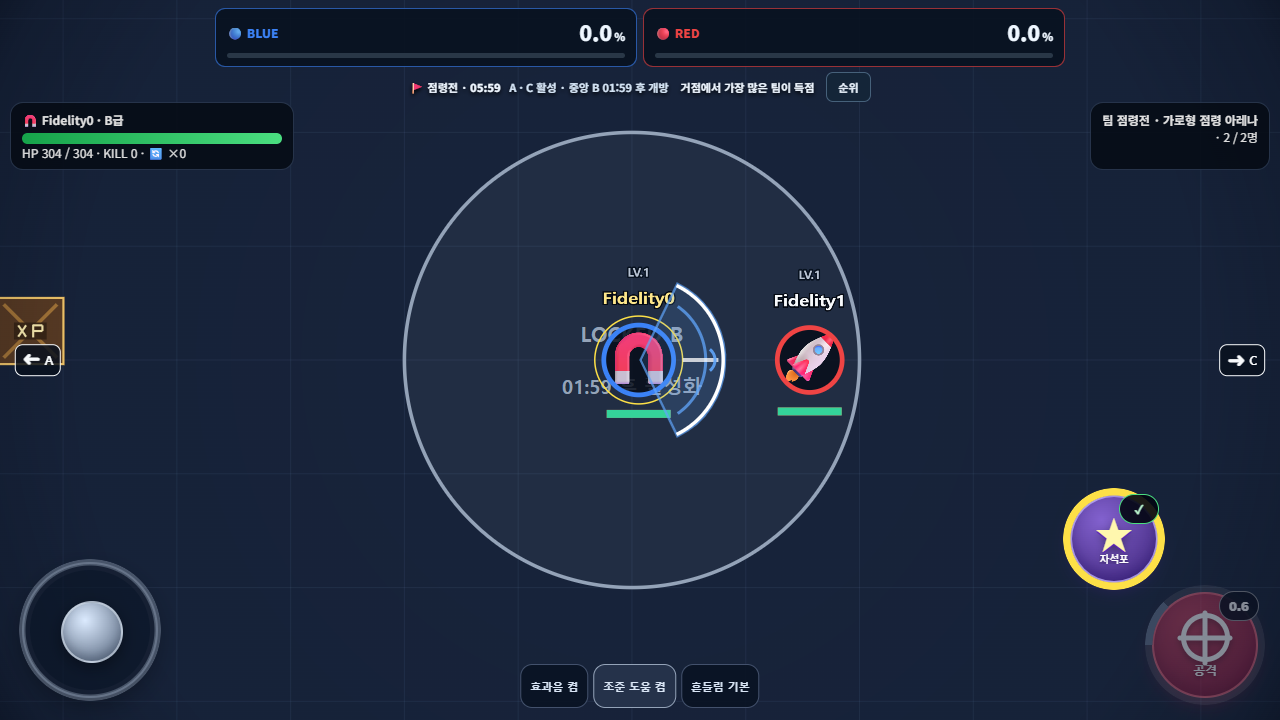
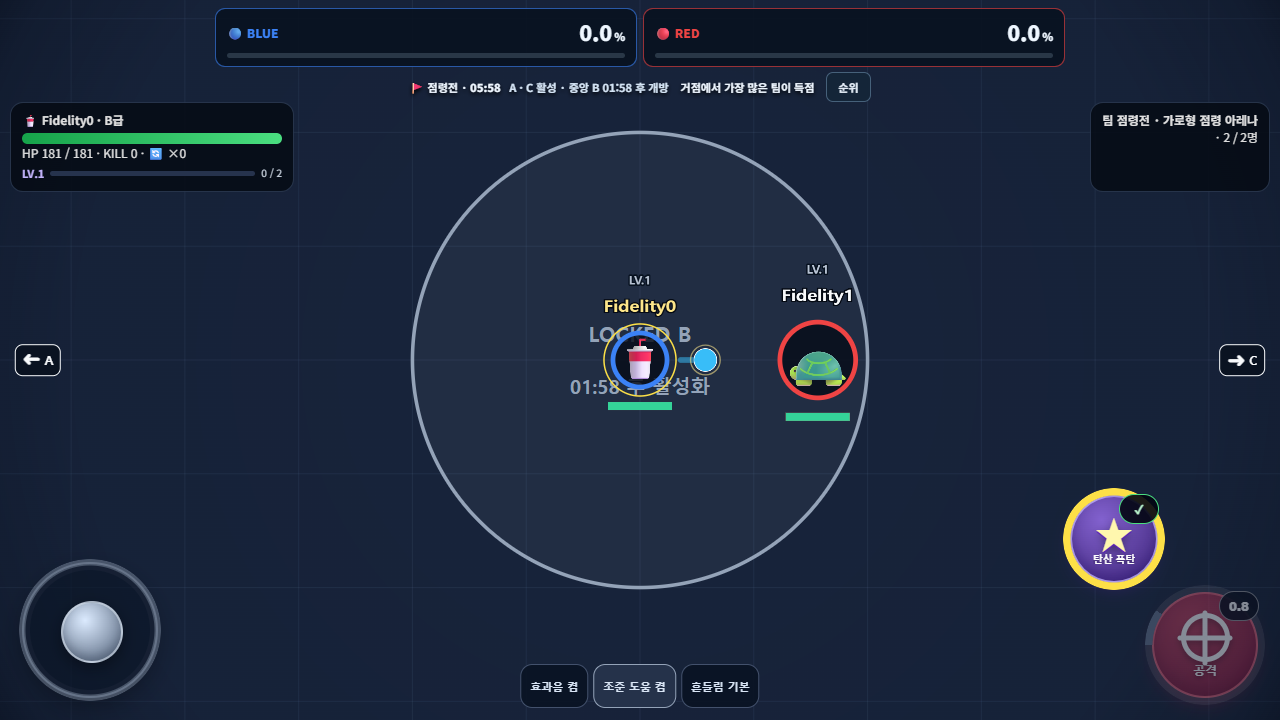
fix: match original student HUD and objective arrows

diff --git a/apps/client/src/render/renderer.js b/apps/client/src/render/renderer.js
@@ -1,10 +1,12 @@
+import {manifest} from '../../../../packages/content/src/manifest.js';
+import {ObjectiveArrows} from './objectives.js';
 import {drawFallback} from './fallback-effects.js';
 import {drawProjectile} from './projectile.js';
 import {previewCue} from '../presentation/previews.js';
 import {Application,Container,Graphics,Sprite,Texture,Text} from 'pixi.js';
 import {createPainters} from './original-painters.js';
 export class Renderer{
- constructor(canvas,timeline,session){this.canvas=canvas;this.timeline=timeline;this.session=session;this.paint=createPainters(session);this.textures=new Map();this.sprites=new Map();this.labels=new Map();this.tracks=new Map();this.frameTimes=[];this.enabled=false;this.teacher=false;this.cam={x:0,y:0};this.last=performance.now();this.init();}
+ constructor(canvas,timeline,session){this.objectives=new ObjectiveArrows();this.canvas=canvas;this.timeline=timeline;this.session=session;this.paint=createPainters(session);this.textures=new Map();this.sprites=new Map();this.labels=new Map();this.tracks=new Map();this.frameTimes=[];this.enabled=false;this.teacher=false;this.cam={x:0,y:0};this.last=performance.now();this.init();}
  async init(){
   if(new URLSearchParams(location.search).get('renderer')!=='canvas')try{this.app=new Application();await this.app.init({canvas:this.canvas,width:innerWidth,height:innerHeight,background:'#07101d',antialias:true,resolution:Math.min(2,devicePixelRatio),autoDensity:true,autoStart:false});this.world=new Container();this.g=new Graphics();this.world.addChild(this.g);this.fg=new Graphics();this.world.addChild(this.fg);this.app.stage.addChild(this.world);this.pixi=true;}catch(error){console.warn('Canvas fallback:',error.message);this.app?.destroy();this.app=null;}
   if(!this.pixi)this.ctx=this.canvas.getContext('2d');this.resize();addEventListener('resize',()=>this.resize());requestAnimationFrame(t=>this.frame(t));
@@ -12,7 +14,7 @@ export class Renderer{
  resize(){const dpr=this.session.roomMeta?.graphicsPreset==='low'?1:Math.min(2,devicePixelRatio);if(this.app)this.app.renderer.resize(innerWidth,innerHeight,dpr);else{this.canvas.width=innerWidth*dpr;this.canvas.height=innerHeight*dpr;this.dpr=dpr;}}
  image(source,x,y,r,key,rotation=0,alpha=1,squash=0){if(this.pixi){let texture=this.textures.get(source);if(!texture){texture=Texture.from(source);this.textures.set(source,texture);}let sprite=this.sprites.get(key);if(!sprite){sprite=new Sprite(texture);sprite.anchor.set(.5);this.sprites.set(key,sprite);this.world.addChild(sprite);}sprite.texture=texture;sprite.visible=true;sprite.position.set(x,y);sprite.width=r*2*(1+squash*.65);sprite.height=r*2*(1-squash);sprite.rotation=rotation;sprite.alpha=alpha;}else{const c=this.ctx;c.save();c.globalAlpha=alpha;c.translate(x,y);c.rotate(rotation);c.drawImage(source,-r*(1+squash*.65),-r*(1-squash),r*2*(1+squash*.65),r*2*(1-squash));c.restore();}}
  glyph(emoji,x,y,r,key,squash=0,alpha=1){this.image(this.paint.brGetEmojiSprite(emoji),x,y,r,key,0,alpha,squash);}
- reset(){this.seenFx=new Set();this.session.hitStates=new Map();this.session.sustainFeedbackAt=new Map();this.session.hitConfirm=null;this.session.killConfirm=null;this.session.studentShake=null;this.session.damageFlash=null;for(const s of this.sprites.values())s.destroy();this.sprites.clear();for(const l of this.labels.values())l.destroy();this.labels.clear();this.tracks.clear();this.hpTrails?.clear();for(const t of this.textures.values())t.destroy(true);this.textures.clear();this.session.nameSpriteCache?.clear();this.paint.BR_ACTOR_EMOJI_CACHE.clear();this.paint.BR_LEVEL_TEXTURES.clear();this.paint.brBulletSources.clear();}
+ reset(){this.objectives.hide();this.seenFx=new Set();this.session.hitStates=new Map();this.session.sustainFeedbackAt=new Map();this.session.hitConfirm=null;this.session.killConfirm=null;this.session.studentShake=null;this.session.damageFlash=null;for(const s of this.sprites.values())s.destroy();this.sprites.clear();for(const l of this.labels.values())l.destroy();this.labels.clear();this.tracks.clear();this.hpTrails?.clear();for(const t of this.textures.values())t.destroy(true);this.textures.clear();this.session.nameSpriteCache?.clear();this.paint.BR_ACTOR_EMOJI_CACHE.clear();this.paint.BR_LEVEL_TEXTURES.clear();this.paint.brBulletSources.clear();}
  feedback(view,now){this.session.playerId=view.self?.id;this.seenFx??=new Set();for(const f of view.effects){if(!f.id||this.seenFx.has(f.id))continue;this.seenFx.add(f.id);if(f.kind==='hit')this.paint.brRegisterHitFeedback(f.targetId,f.amount,f.x,f.y,f.sourceId,f.style,true,f.impactLevel,f.geometry||{});if(f.kind==='elimination'&&f.sourceId===view.self?.id)this.session.killConfirm={until:now+240,duration:240,heavy:true,confirmed:true,elimination:true};}while(this.seenFx.size>600)this.seenFx.delete(this.seenFx.values().next().value);}
  name(a,x,y,zoom,own){const source=this.paint.brGetNameSprite(a.name,own?'#fde68a':'#f8fafc',own),width=Math.min(156,source._labelW||136)/zoom,height=28/zoom,key='name-'+a.id;if(this.pixi){this.image(source,x,y,1,key);const sprite=this.sprites.get(key);sprite.width=width;sprite.height=height;}else this.ctx.drawImage(source,x-width/2,y-height/2,width,height);}
  text(text,x,y,size,color,key){if(this.pixi){let label=this.labels.get(key);if(!label){label=new Text({text,style:{fontFamily:'sans-serif',fontSize:size,fill:color,stroke:{color:'#06101e',width:3},fontWeight:'bold'}});label.anchor.set(.5);this.labels.set(key,label);this.world.addChild(label);}label.text=text;label.style.fontSize=size;label.style.fill=color;label.visible=true;label.position.set(x,y);}else{const c=this.ctx;c.font=`bold ${size}px sans-serif`;c.textAlign='center';c.textBaseline='middle';c.lineWidth=3;c.strokeStyle='#06101e';c.strokeText(text,x,y);c.fillStyle=color;c.fillText(text,x,y);}}
@@ -34,7 +36,7 @@ export class Renderer{
   for(const wall of map.walls){const hw=wall.w/2,hh=wall.h/2,co=Math.cos(wall.angle),si=Math.sin(wall.angle);p.polygon([[-hw,-hh],[hw,-hh],[hw,hh],[-hw,hh]].map(([x,y])=>[wall.x+x*co-y*si,wall.y+x*si+y*co]),wall.kind==='rock'?'#49576a':'#33465b',1,0);}
   for(const b of view.farm?.b||[])this.paint.brPaintCrate(p,b);
   for(const drop of view.farm?.x||[])p.circle(drop[1],drop[2],drop[4]===2?21:14,drop[4]===2?'#4ade80':'#67e8f9',1);
-  if(view.capture&&map.captureMap){const font=Math.max(30,11/zoom),names=['','BLUE','RED','GREEN','YELLOW'];for(const base of map.captureMap.bases||[]){const col=this.paint.brTeamKillColor(base.team);p.rect(base.x-base.rx,base.y-base.ry,base.rx*2,base.ry*2,col,.1);p.rect(base.x-base.rx,base.y-base.ry,base.rx*2,base.ry*2,col,1,3);this.text(names[base.team]+' BASE',base.x,base.y-base.ry+font,font,col,'base-'+base.team);}for(const [i,z]of map.captureMap.points.entries()){const row=view.capture.z[i],enabled=!!(view.capture.am&(1<<i)),team=row[1],color=row[0]==='scoring'?this.paint.brTeamKillColor(team):row[0]==='contested'?'#f1f5f9':'#94a3b8';p.circle(z.x,z.y,z.radius,color,.08);p.circle(z.x,z.y,z.radius,color,1,Math.max(5,1.8/zoom));this.text(enabled?z.id+(i===1?' · ×1.5':'')+' · 점령 거점':'LOCKED '+z.id,z.x,z.y-(enabled?75:35),font*(enabled?1.2:1),color,'point-'+i);this.text(!enabled?Math.max(0,Math.ceil(60-view.capture.a))+'초 후 활성화':row[0]==='scoring'?names[team]+' 우세':row[0]==='contested'?'⚔ 경합 · 득점 정지':'중립 · 대기',z.x,z.y+(enabled?5:40),font,color,'point-state-'+i);if(enabled)for(let team=1;team<=view.capture.n;team++)this.text(names[team][0]+' '+(row[2][team-1]||0),z.x+(team-(view.capture.n+1)/2)*Math.max(85,font*2.6),z.y+85,font*.88,this.paint.brTeamKillColor(team),'point-count-'+i+'-'+team);}}
+  if(view.capture&&map.captureMap){const font=Math.max(30,11/zoom),names=['','BLUE','RED','GREEN','YELLOW'];for(const base of map.captureMap.bases||[]){const col=this.paint.brTeamKillColor(base.team);p.rect(base.x-base.rx,base.y-base.ry,base.rx*2,base.ry*2,col,.1);p.rect(base.x-base.rx,base.y-base.ry,base.rx*2,base.ry*2,col,1,3);this.text(names[base.team]+' BASE',base.x,base.y-base.ry+font,font,col,'base-'+base.team);}for(const [i,z]of map.captureMap.points.entries()){const row=view.capture.z[i],enabled=!!(view.capture.am&(1<<i)),team=row[1],color=row[0]==='scoring'?this.paint.brTeamKillColor(team):row[0]==='contested'?'#f1f5f9':'#94a3b8';p.circle(z.x,z.y,z.radius,color,.08);p.circle(z.x,z.y,z.radius,color,1,Math.max(5,1.8/zoom));this.text(enabled?z.id+(i===1?' · ×1.5':'')+' · 점령 거점':'LOCKED '+z.id,z.x,z.y-(enabled?75:35),font*(enabled?1.2:1),color,'point-'+i);this.text(!enabled?String(Math.floor(Math.max(0,Math.ceil(manifest.capture.openingSeconds-view.capture.a))/60)).padStart(2,'0')+':'+String(Math.max(0,Math.ceil(manifest.capture.openingSeconds-view.capture.a))%60).padStart(2,'0')+' 후 활성화':row[0]==='scoring'?names[team]+' 우세':row[0]==='contested'?'⚔ 경합 · 득점 정지':'중립 · 대기',z.x,z.y+(enabled?5:40),font,color,'point-state-'+i);if(enabled)for(let team=1;team<=view.capture.n;team++)this.text(names[team][0]+' '+(row[2][team-1]||0),z.x+(team-(view.capture.n+1)/2)*Math.max(85,font*2.6),z.y+85,font*.88,this.paint.brTeamKillColor(team),'point-count-'+i+'-'+team);}}
   else if(view.ring)p.circle(view.ring.cx,view.ring.cy,view.ring.radius,'#ef4444',.9,4/zoom);
   for(const z of view.zones||[])this.paint.brPaintGround(p,z.x,z.y,z.radius,z.color,z.type,zoom,false);
   const rw=view.shots.filter(s=>!s.native);
@@ -48,7 +50,7 @@ export class Renderer{
    this.paint.brPaintReworkStatus(p,a.x,a.y,a.radius,zoom,a.rw,a.statusTick??view.renderTick,a.maxHp);
   }
   for(const fx of view.effects){const age=view.renderTick-fx.tick,alpha=Math.max(0,1-age/Math.max(6,(fx.geometry?.displayMs||400)*.06));const row=['',fx.kind,fx.x,fx.y,fx.dx,fx.dy,fx.size,fx.color,fx.amount,0,fx.style,0,fx.impactLevel,fx.geometry];if(!this.paint.brPaintAttack(foreground,row,alpha,zoom))drawFallback(this,foreground,fx,alpha,zoom);}
-  if(!this.teacher&&self&&map.captureMap){for(const z of map.captureMap.points){const dx=(z.x-self.x)*zoom,dy=(z.y-self.y)*zoom;if(Math.abs(dx)<w*.42&&Math.abs(dy)<h*.38)continue;const k=Math.min(w*.42/Math.max(1,Math.abs(dx)),h*.32/Math.max(1,Math.abs(dy))),x=self.x+dx*k/zoom,y=self.y+dy*k/zoom;this.text('➤ '+z.id,x,y,18/zoom,'#fde68a','arrow-'+z.id);}}
+  if(!this.teacher&&self?.alive)this.objectives.draw(map.captureMap,view.capture,this.cam,w,h,zoom,this.paint.brTeamKillColor);else this.objectives.hide();
   for(const key of this.hpTrails?.keys()||[])if(!view.actors.some(a=>key===a.id+':'+a.lifeSeq))this.hpTrails.delete(key);
   for(const [id,track]of this.tracks)if(!view.actors.some(a=>a.id===id&&a.alive))this.paint.brLevelPose(track,0,0,now,false);
   const hit=this.session.killConfirm||this.session.hitConfirm;if(hit&&now<hit.until){const ratio=Math.min(1,(hit.until-now)/hit.duration),r=(hit.heavy?19:14)*(1+(1-ratio)*.35)/zoom,col=hit.elimination?'#fb7185':hit.heavy?'#fde047':'#fff';for(let i=0;i<4;i++){const a=Math.PI/4+i*Math.PI/2;foreground.line(this.cam.x+Math.cos(a)*r*.42,this.cam.y+Math.sin(a)*r*.42,this.cam.x+Math.cos(a)*r,this.cam.y+Math.sin(a)*r,col,Math.min(1,ratio*1.7),(hit.heavy?4:3)/zoom,'round');}if(hit.elimination)this.text('K.O.',this.cam.x,this.cam.y+32/zoom,18/zoom,'#ffe4e6','ko');}

diff --git a/apps/client/src/ui/battle.js b/apps/client/src/ui/battle.js
@@ -1,21 +1,26 @@
-const $=id=>document.getElementById(id),colors=['#60a5fa','#f87171','#4ade80','#facc15'],names=['BLUE','RED','GREEN','YELLOW'];
-const time=n=>Math.floor(n/60)+':'+String(Math.floor(n%60)).padStart(2,'0');
+import {manifest} from '../../../../packages/content/src/manifest.js';
+const $=id=>document.getElementById(id),colors=['#60a5fa','#f87171','#4ade80','#facc15'],names=['BLUE','RED','GREEN','YELLOW'],dots=['🔵','🔴','🟢','🟡'];
+const time=n=>String(Math.floor(n/60)).padStart(2,'0')+':'+String(Math.floor(n%60)).padStart(2,'0');
 export function actionHud(s){
- $('br-battle-status').textContent=`HP ${Math.round(s.hp)} / ${Math.round(s.maxHp)} · KILL ${s.kills||0}`+(s.cover==='smoke'?(s.rw.smokeRevealEnd>s.rw.sourceTick?' · 🌫 노출 중':' · 🌫 은폐 중'):'')+(s.rw?.shield>0?' · 보호막 '+Math.ceil(s.rw.shield):'')+(s.respawn?.protectionFrames>0?' · 🛡 부활 보호':'');
+ $('br-battle-status').textContent=`HP ${Math.round(s.hp)} / ${Math.round(s.maxHp)} · KILL ${s.kills||0}`+(s.cover==='smoke'?(s.rw.smokeRevealEnd>s.rw.sourceTick?(s.rw.smokeRevealReason===1?' · 🌫 공격으로 노출':' · 🌫 피격으로 노출'):' · 🌫 은폐 중'):'')+(s.respawn?' · 🔄 ×'+s.respawn.tokens:'')+(s.respawn?.protectionFrames>0?' · 🛡 부활 보호':'')+(s.rw?.shield>0?' · 보호막 '+Math.ceil(s.rw.shield):'');
  for(const kind of ['attack','skill']){const frames=kind==='attack'?s.basicCooldown:s.cooldown,max=kind==='attack'?s.basicCooldownMax:s.skillCooldownMax,locked=!s.alive||s.stunned>0||s.rw?.locks?.[kind],ready=!locked&&frames<=0,button=$('br-'+kind),label=$('br-'+kind+'-cd');button.style.setProperty('--br-cd-angle',(Math.max(0,Math.min(1,1-frames/Math.max(1,max)))*360).toFixed(1)+'deg');button.classList.toggle('disabled',!ready);button.classList.toggle('br-state-locked',!!locked);label.classList.toggle('ready',ready);label.textContent=locked?'🔒':ready?'✓':(frames/60).toFixed(1);button.setAttribute('aria-disabled',String(locked));}
  $('br-skill-count').textContent=s.rw?.recast?'2 / 2':s.skillUsesLeft<0?'∞':s.skillUsesLeft+'회';
- $('br-joystick').classList.toggle('br-state-locked',!!s.rw?.locks?.move);$('br-skill').classList.toggle('br-channel-aim',!!s.rw?.channel&&!s.stunned);$('br-skill-label').textContent=s.stunned?'기절':s.rw?.channel?'광선 조준':'스킬';if(s.rw?.channel&&!s.stunned)$('br-skill-cd').textContent='조준';
- if(s.rw?.recast)$('br-skill-cd').textContent='재시전';
+ const hardLock=!!(s.stunned||s.rw?.capture),channel=!!s.rw?.channel&&!hardLock;
+ $('br-joystick').classList.toggle('br-state-locked',!!s.rw?.locks?.move);$('br-skill').classList.toggle('br-channel-aim',channel);$('br-skill-label').textContent=hardLock?(s.stunned?'기절':'포획'):channel?'광선 조준':s.visualProfiles?.skillLabel||'스킬';
+ $('br-skill-count').classList.toggle('br-recast-count',!!s.rw?.recast);
+ if(s.rw?.recast&&!hardLock)$('br-skill-cd').textContent=(Math.max(0,s.rw.recast.end-s.rw.sourceTick)/60).toFixed(1);
+ if(channel)$('br-skill-cd').textContent='조준';
+ if((channel||s.rw?.recast)&&!hardLock){$('br-skill').classList.remove('disabled','br-state-locked');$('br-skill').setAttribute('aria-disabled','false');}
 }
 export function captureHud(packet,host){
  let el=$('br-capture-scoreboard');if(!packet){el?.classList.add('br-hidden');document.body.classList.remove('br-capture-host','br-capture-student');return;}
  if(!el){el=document.createElement('div');el.id='br-capture-scoreboard';document.body.append(el);}el.classList.remove('br-hidden');el.classList.toggle('host',host);document.body.classList.toggle('br-capture-host',host);document.body.classList.toggle('br-capture-student',!host);
  if(el.dataset.layout!==String(packet.s.length)){el.dataset.layout=String(packet.s.length);el.innerHTML='<div class="br-cap-cards">'+packet.s.map((_,i)=>`<div class="br-cap-card" style="--team:${colors[i]}"><div><b>${names[i]}</b><strong><span data-cap-value="${i}"></span><small>%</small></strong></div><div class="br-cap-track"><i data-cap-bar="${i}"></i></div></div>`).join('')+'</div><div class="br-cap-info"><span>🚩 점령전 · <b data-cap-time></b> <em data-cap-phase></em></span><span data-cap-status>거점에서 가장 많은 팀이 득점</span><button type="button" data-cap-rank>순위</button></div>';el.querySelector('[data-cap-rank]').onclick=()=>$('br-tk-leaderboard').classList.remove('br-hidden');}
- packet.s.forEach((score,i)=>{el.querySelector(`[data-cap-value="${i}"]`).textContent=score.toFixed(1);el.querySelector(`[data-cap-bar="${i}"]`).style.width=Math.min(100,score)+'%';});el.querySelector('[data-cap-time]').textContent=time(Math.max(0,packet.t-packet.a));const phase=el.querySelector('[data-cap-phase]');phase.textContent=packet.ph==='FEVER'?'🔥 FEVER ×2':packet.ph==='OPENING'?'A · C 활성':'A · B · C 활성';phase.classList.toggle('fever',packet.ph==='FEVER');
+ packet.s.forEach((score,i)=>{el.querySelector(`[data-cap-value="${i}"]`).textContent=(score>=100-1e-8?100:Math.floor((Math.max(0,score)+manifest.capture.epsilon)*10)/10).toFixed(1);el.querySelector(`[data-cap-bar="${i}"]`).style.width=Math.min(100,score)+'%';el.querySelectorAll('.br-cap-card b')[i].textContent=dots[i]+' '+names[i];});el.querySelector('[data-cap-time]').textContent=time(Math.max(0,Math.ceil(packet.t-packet.a)));const phase=el.querySelector('[data-cap-phase]');phase.textContent=packet.ph==='FEVER'?'🔥 FEVER ×2':packet.ph==='OPENING'?'A · C 활성 · 중앙 B '+time(Math.max(0,Math.ceil(manifest.capture.openingSeconds-packet.a)))+' 후 개방':'A · B · C 활성';phase.classList.toggle('fever',packet.ph==='FEVER');
 }
 export function resultRecords(result,roster){
  const list=$('br-ranking'),rows=result.players||[],capture=result.mode==='team-capture';list.classList.add('br-tk-records');const table=document.createElement('table'),head=table.createTHead().insertRow();
  for(const title of ['순위','이름','팀','사용 이모지',capture?'점령 기여':'피해량','K / D / A','Damage','거점 K / A','득점 참여','회복 / 보호','퀴즈 / 리롤']){const cell=document.createElement('th');cell.textContent=title;head.append(cell);}
- const body=table.createTBody();for(const r of rows){const row=body.insertRow(),history=r.abilityHistory||r.emojiHistory||[r.abilityId];const values=[r.rank,r.name,r.team||'-',Array.isArray(history)?history.map(a=>roster.find(c=>c.id===(typeof a==='string'?a:a.abilityId))?.emoji||'').join(' '):'',capture?Number(r.points||0).toFixed(3)+'%p':Math.round(r.damageDealt??r.damage??0),`${r.kills||0} / ${r.deaths||0} / ${r.assists||0}`,Math.round(r.damageDealt??r.damage??0),`${r.pointKills||0} / ${r.pointAssists||0}`,time(r.scoringSeconds||0),`${Math.floor(r.heal||0)} / ${Math.floor(r.shield||0)}`,`${r.quizCorrect||0} / ${r.rerollCount||0}`];for(const value of values)row.insertCell().textContent=value??'';}list.replaceChildren(table);
+ const body=table.createTBody();for(const r of rows){const row=body.insertRow(),history=r.usedAbilities||r.abilityHistory||r.emojiHistory||[r.abilityId];const values=[r.rank,r.name,r.team||'-',Array.isArray(history)?history.map(a=>roster.find(c=>c.id===(typeof a==='string'?a:a.abilityId))?.emoji||'').join(' '):'',capture?Number(r.points||0).toFixed(3)+'%p':Math.round(r.damageDealt??r.damage??0),`${r.kills||0} / ${r.deaths||0} / ${r.assists||0}`,Math.round(r.damageDealt??r.damage??0),`${r.pointKills||0} / ${r.pointAssists||0}`,time(r.scoringSeconds||0),`${Math.floor(r.heal||0)} / ${Math.floor(r.shield||0)}`,`${r.quizCorrect||0} / ${r.rerollCount||0}`];for(const value of values)row.insertCell().textContent=value??'';}list.replaceChildren(table);
  const teams=$('br-tk-result-teams');teams.classList.toggle('br-hidden',!result.teams?.length);teams.replaceChildren(...(result.teams||[]).map(t=>{const e=document.createElement('div');e.className='br-tk-team-result';e.style.setProperty('--tk-color',colors[t.team-1]);const title=document.createElement('b'),score=document.createElement('strong');title.textContent=`${t.rank} · ${names[t.team-1]}`;score.textContent=Number(t.score||0).toFixed(1)+'%';e.append(title,score);return e;}));
 }

diff --git a/apps/client/src/ui/app.js b/apps/client/src/ui/app.js
@@ -63,7 +63,7 @@ export class AppUI{
  screen(id){document.querySelectorAll('.br-screen').forEach(e=>e.classList.add('br-hidden'));show('br-student-battle',id==='br-student-battle');show('br-host-live',id==='br-student-battle'&&this.room?.self.role==='host');show(id);show('br-app',id!=='br-student-battle');}
  renderRoom(room){
   const changed=!this.room||this.room.phase!==room.phase||this.room.matchId!==room.matchId;this.room=room;this.roomAt=performance.now();this.renderer.session.roomMeta=room.config;
-  const host=room.self.role==='host';this.renderer.teacher=host;this.renderer.enabled=room.phase==='BATTLE';this.controls.enabled=!host&&room.phase==='BATTLE';show('br-music-controls');
+  const host=room.self.role==='host';this.renderer.teacher=host;this.renderer.enabled=room.phase==='BATTLE';this.controls.enabled=!host&&room.phase==='BATTLE';const musicVisible=host?['LOBBY','QUIZ','DRAFT','BATTLE'].includes(room.phase):room.phase==='LOBBY';show('br-music-controls',musicVisible);$('br-music-controls').classList.toggle('br-music-host',host);document.body.classList.toggle('br-host-music-visible',host&&musicVisible);
   show('br-tk-host-bar',host&&room.phase==='BATTLE');show('br-tk-student-bar',!host&&room.phase==='BATTLE'&&room.config.mode==='team-capture');if(room.phase!=='BATTLE'){show('br-tk-leaderboard',false);captureHud(null);}
   if(changed){this.audio.phase(room.phase);if(room.phase!=='BATTLE'){this.timeline.reset();this.controls.reset();}}
   if(room.phase==='RESULTS'){this.screen('br-results');this.results(room.result);return;}
@@ -83,13 +83,13 @@ export class AppUI{
  quiz(q){if(!q?.question)return;this.quizUnlock=performance.now()+q.lockRemainingMs;text('br-quiz-score',q.score);text('br-quiz-rerolls',Math.floor(q.score/this.room.config.rerollEvery));text('br-quiz-progress','문제 '+q.attempt);text('br-quiz-word',q.question.prompt);
   if(this.boundQuiz!==q.question.id){this.boundQuiz=q.question.id;$('br-quiz-choices').replaceChildren(...q.question.answers.map(a=>button(a.text,()=>this.run(async()=>{const r=await this.net.command('QUIZ_ANSWER',{questionId:q.question.id,attemptId:q.question.attemptId,answerId:a.id});text('br-quiz-feedback',r.correct?'CORRECT!':'TRY AGAIN · 1.5초 뒤 다시 선택');this.quizUnlock=performance.now()+r.lockMs;}),'br-btn br-choice')));}
  }
- self(s){this.selfState=s;this.net.lifeSeq=s.lifeSeq;text('br-battle-self',s.emoji+' '+s.name);text('br-battle-status',`HP ${Math.ceil(s.hp)} / ${Math.round(s.maxHp)}`);$('br-battle-hp').style.width=Math.max(0,s.hp/s.maxHp*100)+'%';
+ self(s){this.selfState=s;this.net.lifeSeq=s.lifeSeq;text('br-battle-self',s.emoji+' '+s.name+' · '+s.tier+'급');text('br-battle-status',`HP ${Math.ceil(s.hp)} / ${Math.round(s.maxHp)}`);$('br-battle-hp').style.width=Math.max(0,s.hp/s.maxHp*100)+'%';
   text('br-attack-cd',s.basicCooldown>0?(s.basicCooldown/60).toFixed(1):'✓');text('br-skill-cd',s.cooldown>0?(s.cooldown/60).toFixed(1):'✓');
   actionHud(s);this.augments.render(s);
   const q=s.respawn;show('br-tk-quiz',!s.alive&&!!q);show('br-respawn',!s.alive&&!q);if(!s.alive&&q){text('br-tk-progress',q.correct+' / 3 CORRECT');text('br-tk-quiz-tokens','🔄 ×'+q.tokens);text('br-tk-word',q.question?.prompt||'부활할 이모지를 선택하세요.');show('br-tk-choice',q.correct>=3);$('br-tk-reroll').disabled=q.tokens<=0;
    if(this.respawnId!==q.question?.id){this.respawnId=q.question?.id;$('br-tk-options').replaceChildren(...(q.question?.answers||[]).map(a=>button(a.text,()=>this.run(async()=>{const r=await this.net.command('RESPAWN',{kind:'answer',questionId:q.question.id,answerId:a.id});text('br-tk-feedback',r.message||'');}))));}}
  }
- battleHud(v){text('br-battle-time',Math.floor(v.simTime/60000)+':'+String(Math.floor(v.simTime/1000)%60).padStart(2,'0'));text('br-battle-alive',v.aliveCount+'명');text('br-battle-mode',this.room?.config.mode==='team-capture'?'팀 점령전':this.room?.config.mode==='team-elim'?'팀 생존전':'개인전');text('br-zone-text',v.capture?v.capture.ph==='FEVER'?'FEVER ×2':v.capture.ph==='OPENING'?'A · C 활성':'A · B · C 활성':v.ring?'안전구역 '+Math.round(v.ring.radius):'');
+ battleHud(v){text('br-battle-time',Math.floor(v.simTime/60000)+':'+String(Math.floor(v.simTime/1000)%60).padStart(2,'0'));text('br-battle-alive',v.aliveCount+' / '+(this.room?.players.length||v.actors.length)+'명');text('br-battle-mode',(v.self?.flags&64?'🔥 FINAL 3 BURNING · ':'')+(this.room?.config.mode==='team-capture'?'팀 점령전':this.room?.config.mode==='team-elim'?'팀 생존전':'개인전')+(innerWidth>600&&this.timeline.static?.mapName?' · '+this.timeline.static.mapName:''));text('br-zone-text',v.capture?v.capture.ph==='FEVER'?'FEVER ×2':v.capture.ph==='OPENING'?'A · C 활성':'A · B · C 활성':v.ring?'안전구역 '+Math.round(v.ring.radius):'');
   captureHud(v.capture,this.renderer.teacher);
  }
  results(result){if(!result)return;const rows=result.players||[],winner=rows[0],card=manifest.roster.find(a=>a.id===winner?.abilityId);text('br-result-winner',result.mode==='team-capture'?(result.tiedTeams?.length>1?'공동 1위 · 무승부':'팀 '+result.teamWinner+' 승리'):`🏆 ${card?.emoji||winner?.emoji||''} ${winner?.name||'경기 종료'}`);

diff --git a/apps/client/src/render/objectives.js b/apps/client/src/render/objectives.js
@@ -1,0 +1,25 @@
+// v32.1 brCaptureArrowPosition and brCaptureObjectiveArrows, adapted to received WS state.
+function position(point,cam,w,h,zoom,top=100,bottom=h-180){
+ const dx=(point.x-cam.x)*zoom,dy=(point.y-cam.y)*zoom,r=point.radius*zoom;
+ const nearX=Math.max(0,Math.abs(dx)-w/2),nearY=Math.max(0,Math.abs(dy)-h/2);
+ if(nearX*nearX+nearY*nearY<=r*r)return null;
+ top=Math.min(h*.45,top);bottom=Math.max(h*.55,bottom);
+ const cx=w/2,cy=Math.max(top,Math.min(bottom,h/2)),left=38,right=w-38;
+ const tx=Math.abs(dx)<1e-6?Infinity:(dx>0?right-cx:left-cx)/dx;
+ const ty=Math.abs(dy)<1e-6?Infinity:(dy>0?bottom-cy:top-cy)/dy,t=Math.max(0,Math.min(tx,ty));
+ return {x:cx+dx*t,y:cy+dy*t,angle:Math.atan2(dy,dx)};
+}
+export class ObjectiveArrows{
+ hide(){if(this.root)this.root.hidden=true;}
+ draw(map,packet,cam,w,h,zoom,color){
+  if(!map||!packet){this.hide();return;}
+  if(!this.root){this.root=document.createElement('div');this.root.id='br-capture-arrows';this.root.setAttribute('aria-hidden','true');document.getElementById('br-student-battle').append(this.root);this.nodes=map.points.map(()=>{const el=document.createElement('div'),arrow=document.createElement('span'),label=document.createElement('b');el.className='br-objective-arrow';arrow.textContent='➜';el.append(arrow,label);this.root.append(el);return {el,arrow,label,key:''};});}
+  this.root.hidden=false;const key=w+'|'+h+'|'+packet.n;if(this.layoutKey!==key){this.layoutKey=key;this.top=Math.max(100,(document.getElementById('br-capture-scoreboard')?.getBoundingClientRect().bottom||80)+24);}
+  const positions=[];for(const [i,z]of map.points.entries()){const node=this.nodes[i],pos=position(z,cam,w,h,zoom,this.top,h-(h>w?190:160));node.el.hidden=!pos;if(!pos)continue;
+   for(const prior of positions)if(Math.hypot(pos.x-prior.x,pos.y-prior.y)<44)pos.y=Math.max(this.top,Math.min(h-160,pos.y+(pos.y<h/2?44:-44)));positions.push(pos);
+   const enabled=!!(packet.am&(1<<i)),row=packet.z[i],col=!enabled?'#94a3b8':row[0]==='scoring'?color(row[1]):'#f8fafc',text=!enabled?'🔒 '+z.id:z.id+(i===1?' ×1.5':''),state=text+'|'+col;
+   if(node.key!==state){node.key=state;node.label.textContent=text;node.el.style.color=col;}
+   node.el.style.transform='translate('+pos.x.toFixed(1)+'px,'+pos.y.toFixed(1)+'px) translate(-50%,-50%)';node.arrow.style.transform='rotate('+pos.angle+'rad)';
+  }
+ }
+}

diff --git a/packages/engine/src/presentation.js b/packages/engine/src/presentation.js
@@ -6,5 +6,5 @@ export function visualProfiles(w,p){
  if(s&&['fireball','sequential-barrage','scissor-volley','sniper','shotgun','hunter-mark','power-shot','soda-bomb','heavy-book','precision','thorn-pot','bubble'].includes(s.kind))Object.assign(skill,{count:Math.min(s.countCap||1,(s.count||1)+Math.max(0,Math.min(3,m.skillCount))),interval:Number(s.intervalFrames??s.interval??0),spread:s.spread||0,speed:s.speed,radius:(s.kind==='fireball'?s.width/2:s.radius||s.width/2)*m.skillSize,finalRadius:s.finalRadius? s.finalRadius*m.skillSize:null,range:spec.range,offset:0});
  else if(!s&&w.brGetPlayableSkillInfo(a)?.key==='ranged-power'){const q=w.brRangedPowerProfile(a);Object.assign(skill,q,{count:w.brRunCount(1,m.skillCount),radius:q.size*m.skillSize,spread:.1,offset:.78});}
  else if(!s&&a.type===w.ABILITY_TYPES.PROJ&&a.sub!=='SNIPE'){const q=w.getPlayerSignatureProjectileProfile(a),count=w.brRunCount(q.count,m.skillCount);Object.assign(skill,q,{count,radius:q.size*(a.t==='S'?1.14:a.t==='A'?1.08:1)*m.skillSize,spread:a.sub==='NOVA'?Math.PI*2/count:q.spread||.1,radial:a.sub==='NOVA',range:spec.range,offset:0});}
- return {attack,skill};
+ return {attack,skill,skillLabel:w.brGetPlayableSkillInfo(a)?.label||'스킬'};
 }

diff --git a/docs/fidelity-repair.md b/docs/fidelity-repair.md
@@ -10,6 +10,7 @@ Baseline: deployed/main `352afbc4e91427812ad55432981a6ef79f778aa6`. Rechecked ma
 4. Generic circles did not represent volley previews. Server-derived display profiles use the unchanged original basic/skill functions. Predictable rounds have owner/life/kind/seq/ordinal identity, windup and interval. Curved/target-dependent skills retain an opening cue until authority. Accepted rounds replace matching previews; rejected/cancelled inputs clear cues, including melee actions with no projectile. No client hit/damage decision was added.
 5. Short-lived curved shots could become a straight birth-to-end chord. Presentation now samples recorded authoritative path segments. End effects are separate residuals, and unknown curved paths never invent a chord. Explicit terminals remove attack bodies. Effect life checks prevent old-life hit feedback after respawn.
 6. Actual browser tests uncovered another migration error: farm collision rows were converted to `pos/width/height`, although the original movement kernel expects `x/y/w/h`. This could make predicted coordinates non-finite. The adapter and finite-coordinate regression are fixed without changing collision rules.
+7. Full-scene comparison also exposed generic skill labels, omitted grade/reroll/map information, a music panel covering capture status, generic objective arrows, and a 60-second display countdown for the unchanged 120-second opening rule. The WS display profile now supplies the original skill label; the original HUD fields, music-panel visibility, pooled arrow DOM/layout, and capture countdown/score formatting are connected. Original and WS student HUD text and arrow coordinates/rotation are asserted equal for the same received scene.
 
 ## Original → connected implementation
 
@@ -23,9 +24,9 @@ Baseline: deployed/main `352afbc4e91427812ad55432981a6ef79f778aa6`. Rechecked ma
 | local cast start / shot handoff | original derived basic and supported straight skill descriptors, per-round IDs/delay, rejection cleanup; curved skills wait for authority | Exact timing on real high RTT school devices; every forced-motion preview |
 | melee/cast warnings/beam/zone/hit | original `brPaintAttack`, ground/status painters; fallback muzzle/impact/elimination primitives; real FX event consumption | Every legacy cosmetic particle/death dissolve is not restored or visually compared |
 | hit confirm / hurt / critical strength | original `brRegisterHitFeedback`, hit profiles, directional hurt edge, squash/flash, centre hit/KO cross; no preview hit confirmations | All sounds/haptics/device reduced-motion combinations |
-| HP / cooldown / skill lock / shield | original cached name label, own outline, HP damage trail, original cooldown CSS angle/classes, shield text/channel/recast indicators | Exhaustive HUD screenshots for all 77 skills |
+| HP / cooldown / skill lock / shield | original cached name label, own outline, HP damage trail, original skill name/grade/reroll/map fields, cooldown CSS angle/classes, shield text/channel/recast indicators | Exhaustive HUD screenshots for all 77 skills |
 | movement / aim / cover | original movement kernel plus corrected crate adapter; gesture opening cue, server-visible actors, smoke/reveal labels, invisibility/boost flags | Complex dash/teleport immediate local motion parity remains broader than this repair |
-| level / capture HUD / objectives | original level painter, original scoreboard classes, point states/counts/bases, offscreen objective labels | Objective arrow decoration and some host observer layout still differ |
+| level / capture HUD / objectives | original level painter, scoreboard classes/countdown, point states/counts/bases; original objective arrow DOM/layout and actual received-state comparison | Some host observer layout still differs |
 | results / KDA | server results → original table/team classes; assists, damage, capture/support/quiz/reroll fields | Complete legacy award decoration and all alternate result layouts remain partial |
 
 ## Executed evidence
@@ -37,7 +38,7 @@ The harness starts the **real server and two isolated student browser contexts**
 - Actual received snapshot traces are replayed through the renderer at simulated 30/60/120 FPS, with/without 0/30/80/10/50 ms delivery jitter. This is **not** physical monitor FPS or OS/network packet jitter.
 - `visuals.mjs`: basic, slash, headshooter, grandwizard, bubble, bats, pro boomerang, tennis reflection, basketball return, genie turret, void beam, dynamite and beast titan. Both viewers see own/opponent action. Flying bodies have no duplicate preview/authority keys; reflection/return and all twelve titan ordinals are explicitly asserted. Target HP is replenished in these fixtures to observe entire flight lifetimes; this is separate from numerical combat parity.
 - CI run 41549507750 passed verify/build, three-mode E2E and Canvas fidelity, then failed the Pixi tennis display assertion; load smoke did not run. The fixture had only cleared the visible crate array, leaving its spatial index/cache/respawn queues, and sent snapshots every 12 ms. It now clears the whole farm fixture, gives both tennis players clear wall lanes, and publishes every 50 ms. Server reflections/returns and each viewer's actual draw frames are asserted separately. Both corrected 13-case Edge renderer suites passed locally; the failed CI is retained as historical evidence, not reported as a pass.
-- Canvas native glyph from actual WS data equals offline v32.1 PNG bytes at identical size/quality/velocity/rotation/zoom. `reference.mjs` also feeds the same received actors/map/growth/time/camera to the offline full original student renderer. Paired scene images are for inspection; **full-scene pixel equality is not claimed**. The original reference blocks all network/Firebase requests.
+- Canvas native glyph from actual WS data equals offline v32.1 PNG bytes at identical size/quality/velocity/rotation/zoom. `reference.mjs` also feeds the same received actors/map/growth/time/camera to the offline full original student renderer. The reference receives the actual private growth/respawn state as well. Student name/grade, HP/KILL/reroll, mode/map, participant counts, skill name, capture timers, growth visibility and objective-arrow text/coordinates/rotation are asserted equal. Paired scene images are for inspection; **full-scene pixel equality is not claimed**. The original reference blocks all network/Firebase requests.
 - `node tools/verify.mjs`: 123 tests plus client/server build. `npm run test:e2e`: three modes through quiz/draft/battle/results/rematch. CI also runs both fidelity renderer paths and retains screenshots/logs as artifacts.
 
 Run locally with Node from `.nvmrc`: `npm ci`, `npx playwright install chromium`, `npm run verify`, `npm run test:e2e`, `npm run test:fidelity`, `FIDELITY_RENDERER=pixi node tests/fidelity/visuals.mjs`. On this Windows PC tests used Edge via `$env:PLAYWRIGHT_CHANNEL='msedge'`. The local npm bootstrap was `node .local-tools/package/bin/npm-cli.js`; the bootstrap directory is ignored.

diff --git a/docs/progress.md b/docs/progress.md
@@ -72,3 +72,5 @@ Production hosting credentials/domain were not provided; production is not deplo
 
 - Final Pixi inspection found shared Graphics primitives could be hidden by later emoji sprites. Confirmed hit/flash/KO effects now use a reusable foreground Graphics layer; a two-client assertion verifies it remains above sprites. Emoji sources use the original quality-specific cached raster. The 13-case Pixi suite and paired build passed again after this correction.
 - Remote CI 41549507750 failed at the Pixi tennis display assertion after verify/build, E2E and Canvas fidelity passed; load smoke was skipped. Corrected visual fixture isolation (farm spatial index/cache/queues), clear reflection lanes for both players and actual 20 Hz snapshot pacing. Added separate server-reflection and own/opponent rendered-reflection assertions. Corrected Edge Canvas and Pixi 13-case suites both passed; no gameplay rule changed.
+
+- Same-state original/WS HUD comparison exposed and fixed missing skill names/grade/reroll/map text, music-control overlap, objective arrow decoration/layout and the incorrect 60-second center-opening display. The actual rule remains 120 seconds. Reference now receives private growth/respawn state and asserts HUD text, capture timers and pooled arrow positions/directions against the offline original. The executed two-browser comparison passed; full-scene pixel equality remains unclaimed.
